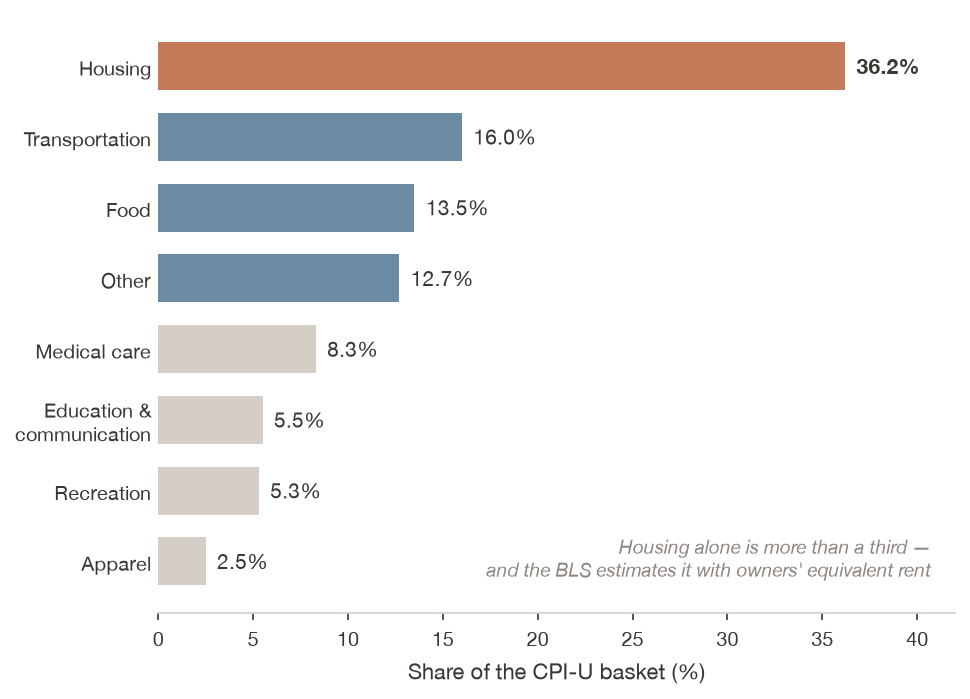
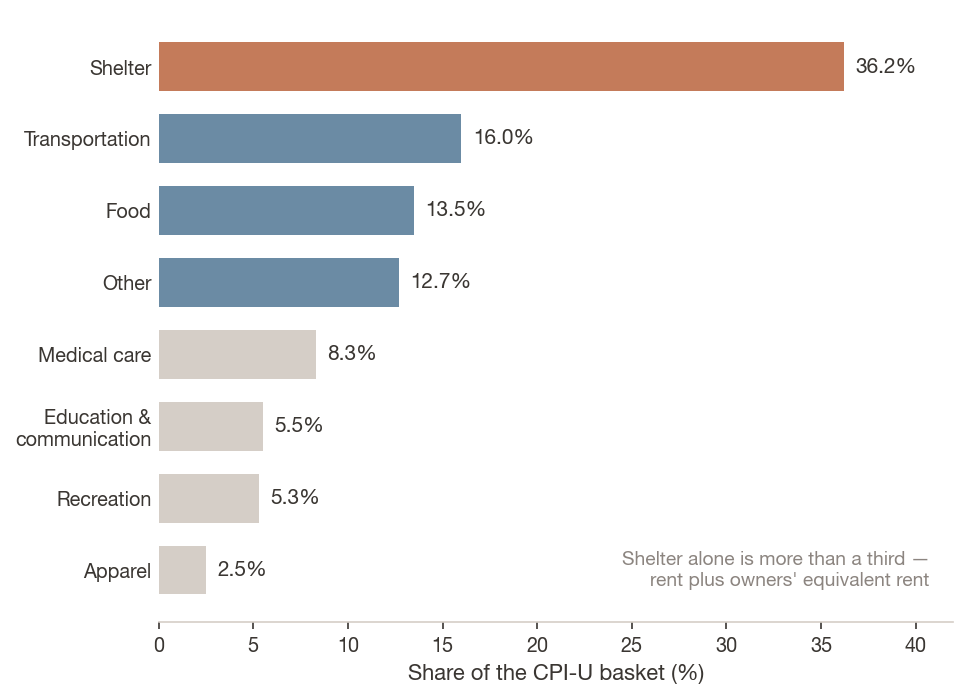
3916 Ch 2: relabel the CPI weights figure's Housing bar to Shelter
The 36.2% is shelter (rent + owners' equivalent rent); the full BLS housing
group is about 44%. Slide text, alt text and speaker note updated to match.

diff --git a/econ3916/ch02-measurement-indexes-nominal-vs-real/index.html b/econ3916/ch02-measurement-indexes-nominal-vs-real/index.html
@@ -501,10 +501,10 @@
       <section id="cpi-components" style="padding: 26px 50px;">
         <h2 style="font-size: 26pt;"><i class="fa-solid fa-chart-simple" style="color: var(--secondary-color);"></i> What Is Actually in the Basket</h2>
         <div style="display: grid; grid-template-columns: 1.5fr 1fr; gap: 26px; align-items: start; margin-top: 4px;">
-          <img src="figures/figure_002_cpi_components.png" alt="Horizontal bar chart of the eight major CPI-U components by approximate 2024 weight. Housing is highlighted at 36.2 percent, followed by transportation at 16.0, food at 13.5, other at 12.7, medical care at 8.3, education and communication at 5.5, recreation at 5.3, and apparel at 2.5 percent" style="width: 100%; max-height: 520px; object-fit: contain;">
+          <img src="figures/figure_002_cpi_components.png" alt="Horizontal bar chart of the eight major CPI-U components by approximate 2024 weight. Shelter is highlighted at 36.2 percent, followed by transportation at 16.0, food at 13.5, other at 12.7, medical care at 8.3, education and communication at 5.5, recreation at 5.3, and apparel at 2.5 percent" style="width: 100%; max-height: 520px; object-fit: contain;">
           <div>
             <div style="background: #fdf3ee; border-radius: 8px; padding: 16px 20px; border-left: 4px solid var(--accent-color);">
-              <p style="font-size: 15pt;"><strong>Shelter is more than a third</strong> of the index (the Housing bar: rent plus owners' equivalent rent) — bigger than food and medical care combined.</p>
+              <p style="font-size: 15pt;"><strong>Shelter is more than a third</strong> of the index — rent plus owners' equivalent rent — bigger than food and medical care combined.</p>
             </div>
             <div style="background: #f0f5f8; border-radius: 8px; padding: 16px 20px; border-left: 4px solid var(--secondary-color); margin-top: 14px;">
               <p style="font-size: 15pt;">Weights come from the <strong>Consumer Expenditure Survey</strong> — about 24,000 households, 200+ spending categories.</p>
@@ -515,7 +515,7 @@
             <p style="font-size: 14pt; color: var(--muted-color); margin-top: 16px; font-style: italic;">Poll 1's lesson, at national scale: the biggest weight wins, not the biggest percentage move.</p>
           </div>
         </div>
-        <aside class="notes">Tie back to the poll explicitly. Students who voted A now see the same structure at national scale — housing carries the index because housing carries the budget. CORRECTED 2026-09-13: (1) the 36.2% in the figure is SHELTER (rent + OER, Dec 2023 relative importance); the full BLS "housing" group, with utilities and furnishings, is about 44%. (2) BLS moved to ANNUAL weight updates in January 2023, using a single year of CE data lagged two years; "every two years" was the pre-2023 rule.</aside>
+        <aside class="notes">Tie back to the poll explicitly. Students who voted A now see the same structure at national scale — housing carries the index because housing carries the budget. CORRECTED 2026-09-13: (1) the 36.2% in the figure is SHELTER (rent + OER, Dec 2023 relative importance); the full BLS "housing" group, with utilities and furnishings, is about 44%, and the difference sits in the figure's Other bar. The bar was relabelled Housing to Shelter on 2026-09-13. (2) BLS moved to ANNUAL weight updates in January 2023, using a single year of CE data lagged two years; "every two years" was the pre-2023 rule.</aside>
       </section>
 
       <!-- ============ SLIDE 21: HOUSING / OER ============ -->

diff --git a/econ3916/ch02-measurement-indexes-nominal-vs-real/presentation.html b/econ3916/ch02-measurement-indexes-nominal-vs-real/presentation.html
@@ -501,10 +501,10 @@
       <section id="cpi-components" style="padding: 26px 50px;">
         <h2 style="font-size: 26pt;"><i class="fa-solid fa-chart-simple" style="color: var(--secondary-color);"></i> What Is Actually in the Basket</h2>
         <div style="display: grid; grid-template-columns: 1.5fr 1fr; gap: 26px; align-items: start; margin-top: 4px;">
-          <img src="figures/figure_002_cpi_components.png" alt="Horizontal bar chart of the eight major CPI-U components by approximate 2024 weight. Housing is highlighted at 36.2 percent, followed by transportation at 16.0, food at 13.5, other at 12.7, medical care at 8.3, education and communication at 5.5, recreation at 5.3, and apparel at 2.5 percent" style="width: 100%; max-height: 520px; object-fit: contain;">
+          <img src="figures/figure_002_cpi_components.png" alt="Horizontal bar chart of the eight major CPI-U components by approximate 2024 weight. Shelter is highlighted at 36.2 percent, followed by transportation at 16.0, food at 13.5, other at 12.7, medical care at 8.3, education and communication at 5.5, recreation at 5.3, and apparel at 2.5 percent" style="width: 100%; max-height: 520px; object-fit: contain;">
           <div>
             <div style="background: #fdf3ee; border-radius: 8px; padding: 16px 20px; border-left: 4px solid var(--accent-color);">
-              <p style="font-size: 15pt;"><strong>Shelter is more than a third</strong> of the index (the Housing bar: rent plus owners' equivalent rent) — bigger than food and medical care combined.</p>
+              <p style="font-size: 15pt;"><strong>Shelter is more than a third</strong> of the index — rent plus owners' equivalent rent — bigger than food and medical care combined.</p>
             </div>
             <div style="background: #f0f5f8; border-radius: 8px; padding: 16px 20px; border-left: 4px solid var(--secondary-color); margin-top: 14px;">
               <p style="font-size: 15pt;">Weights come from the <strong>Consumer Expenditure Survey</strong> — about 24,000 households, 200+ spending categories.</p>
@@ -515,7 +515,7 @@
             <p style="font-size: 14pt; color: var(--muted-color); margin-top: 16px; font-style: italic;">Poll 1's lesson, at national scale: the biggest weight wins, not the biggest percentage move.</p>
           </div>
         </div>
-        <aside class="notes">Tie back to the poll explicitly. Students who voted A now see the same structure at national scale — housing carries the index because housing carries the budget. CORRECTED 2026-09-13: (1) the 36.2% in the figure is SHELTER (rent + OER, Dec 2023 relative importance); the full BLS "housing" group, with utilities and furnishings, is about 44%. (2) BLS moved to ANNUAL weight updates in January 2023, using a single year of CE data lagged two years; "every two years" was the pre-2023 rule.</aside>
+        <aside class="notes">Tie back to the poll explicitly. Students who voted A now see the same structure at national scale — housing carries the index because housing carries the budget. CORRECTED 2026-09-13: (1) the 36.2% in the figure is SHELTER (rent + OER, Dec 2023 relative importance); the full BLS "housing" group, with utilities and furnishings, is about 44%, and the difference sits in the figure's Other bar. The bar was relabelled Housing to Shelter on 2026-09-13. (2) BLS moved to ANNUAL weight updates in January 2023, using a single year of CE data lagged two years; "every two years" was the pre-2023 rule.</aside>
       </section>
 
       <!-- ============ SLIDE 21: HOUSING / OER ============ -->
